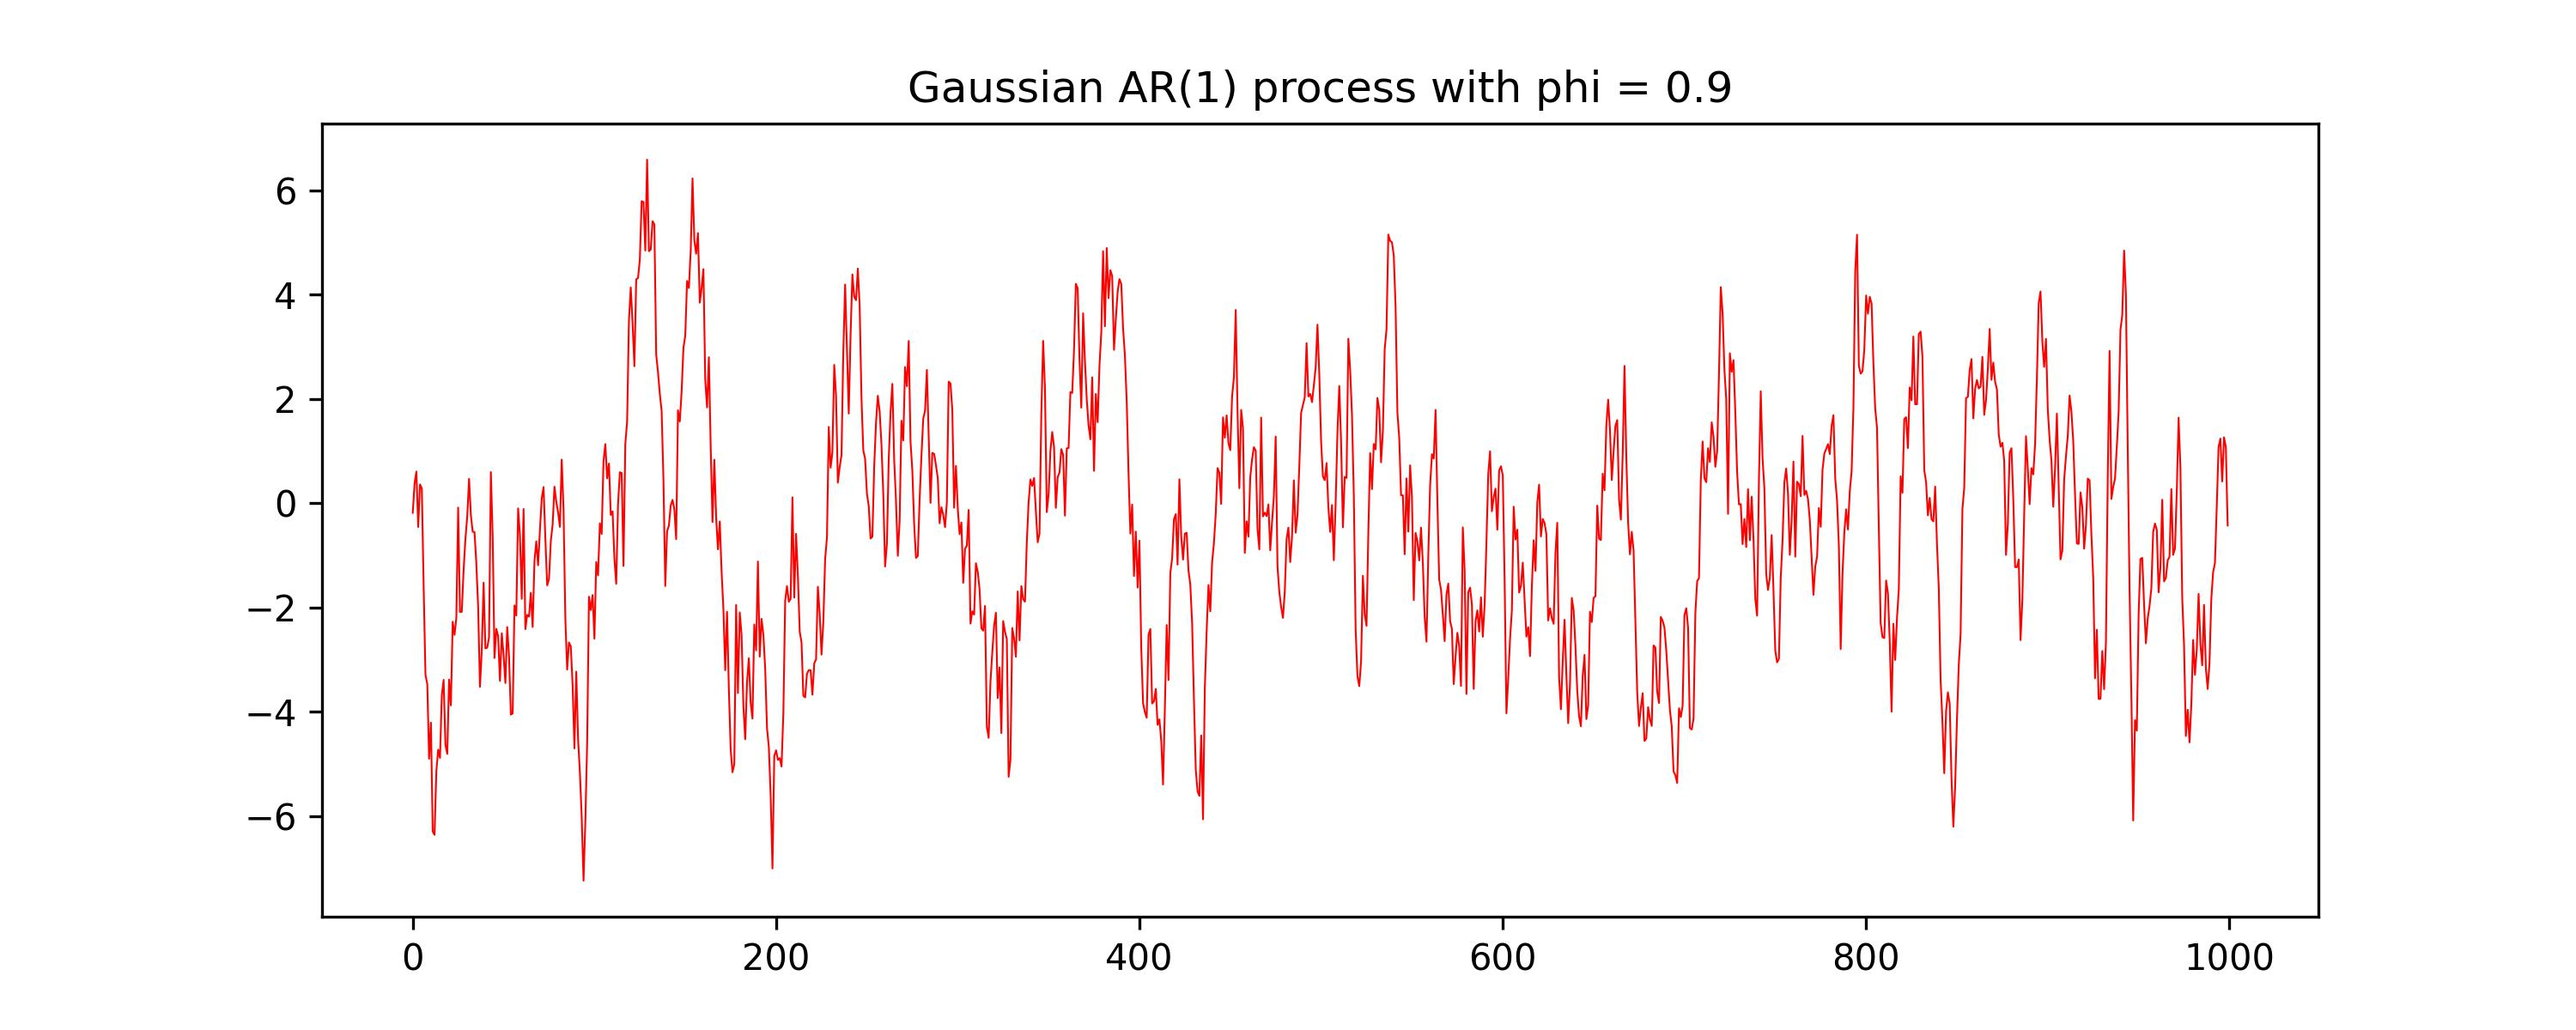
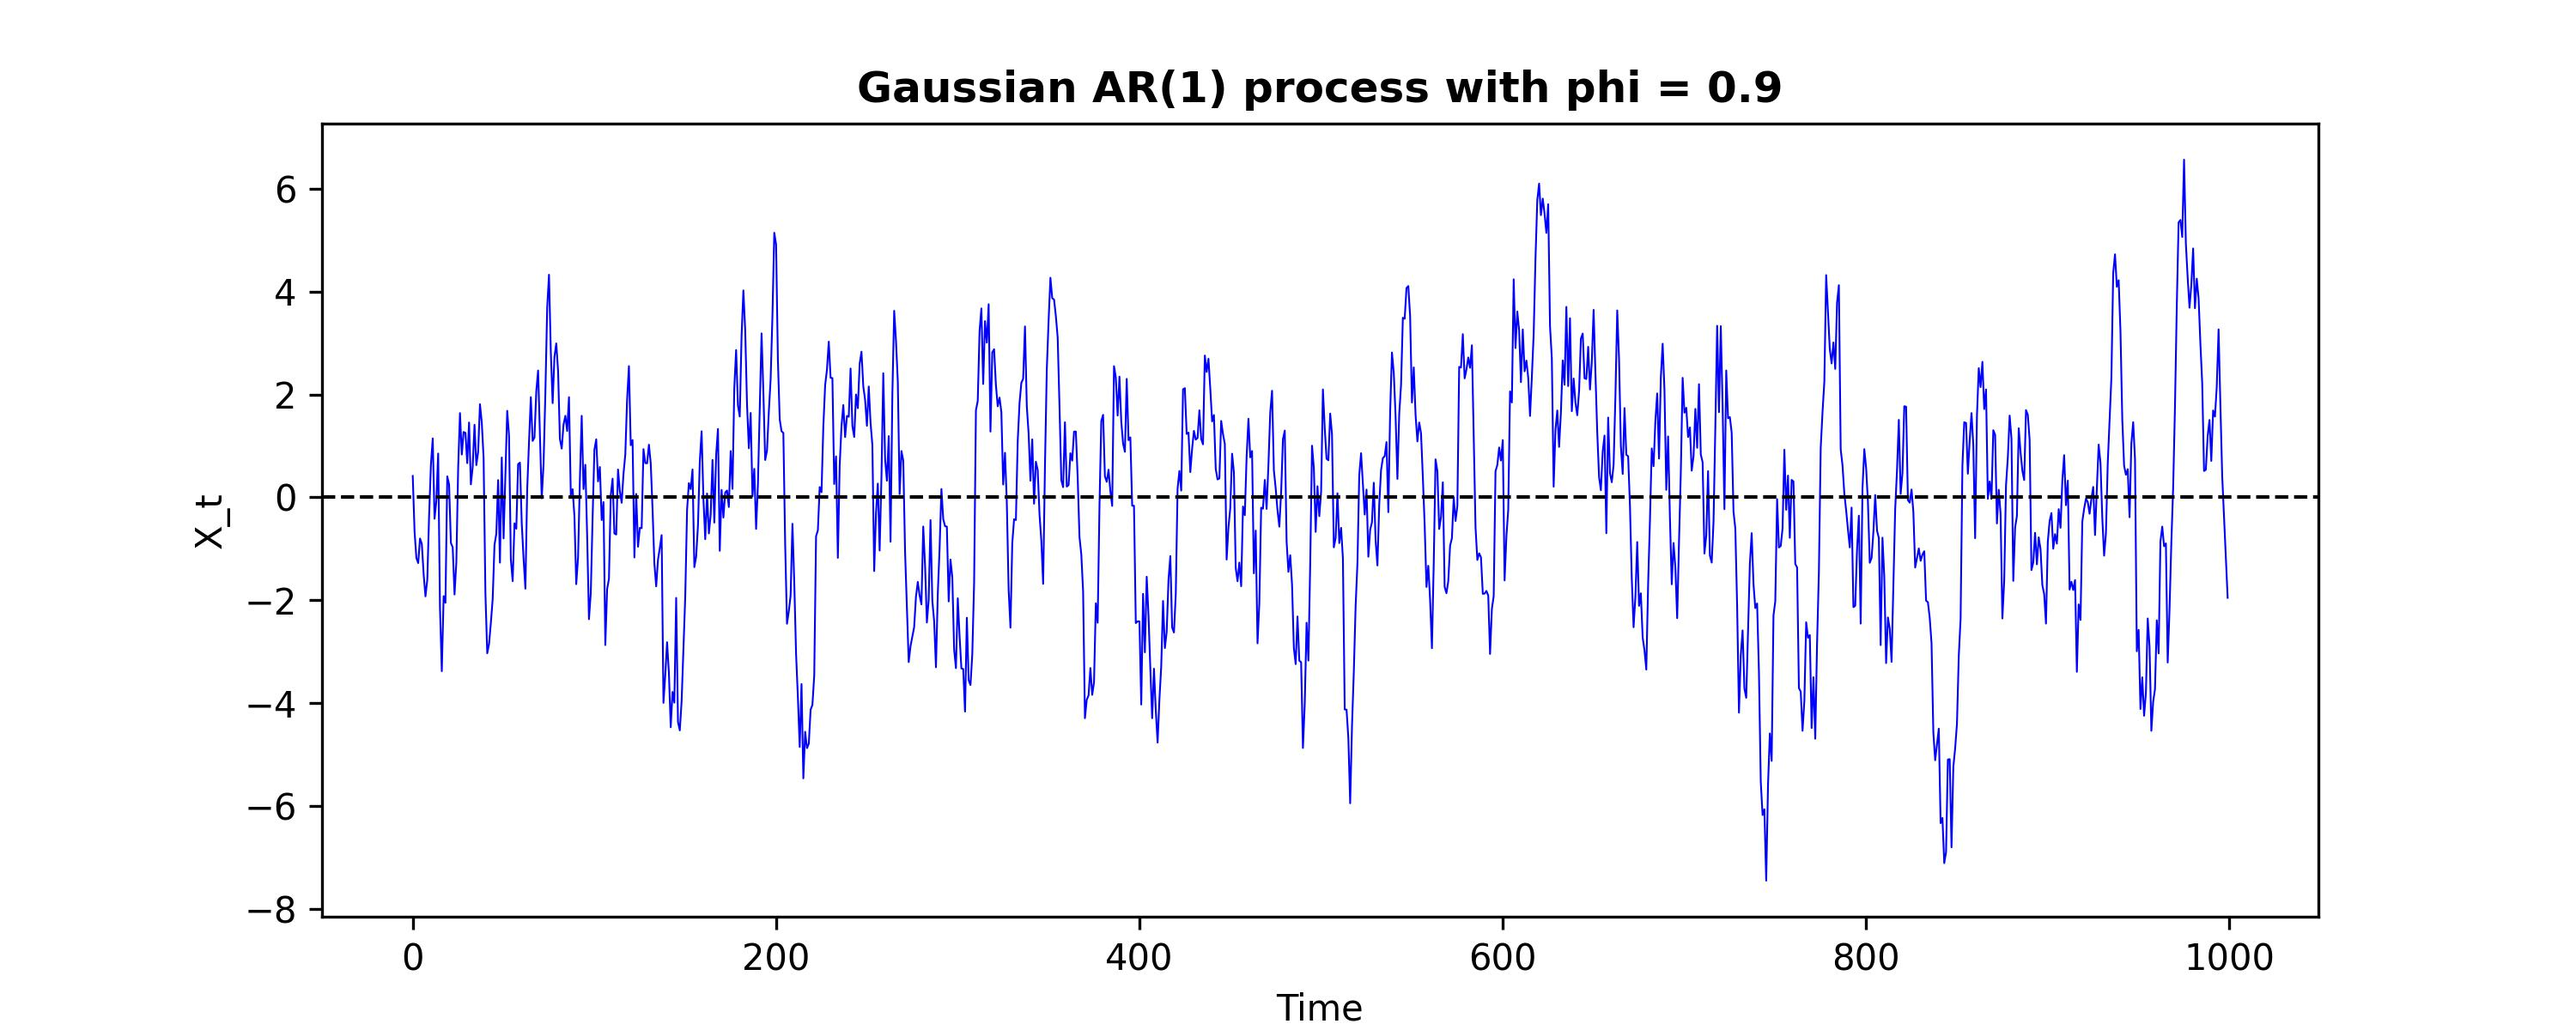
Improve the plots of graphs

diff --git a/1/TSDE_A1_Group19.py b/1/TSDE_A1_Group19.py
@@ -19,8 +19,11 @@ def autoRegressiveProcess(phi, time, whiteNoise):
     fileName = f'1_AR1_phi_{phi}'
     
     plt.figure(figsize=(10,4))
-    plt.plot(time_plt, x_t, linewidth = 0.5, color = 'red')
-    plt.title(graphTitle)
+    plt.plot(time_plt, x_t, linewidth = 0.5, color = 'blue')
+    plt.axhline(0, color='black', linestyle='--', linewidth=1)
+    plt.title(graphTitle, fontweight='bold')
+    plt.xlabel('Time')
+    plt.ylabel('X_t')
     plt.savefig(f'../1/figures/{fileName}.jpeg', dpi=300)
     plt.show()
 
@@ -51,8 +54,11 @@ graphTitle = 'Data set from Canvas'
 fileName = f'2_data_from_canvas'
 
 plt.figure(figsize=(10,4))    
-plt.plot(canvasData.index, canvasData, linewidth = 0.5, color = 'red')
-plt.title(graphTitle)
+plt.plot(canvasData.index, canvasData, linewidth = 0.5, color = 'blue')
+plt.axhline(0, color='black', linestyle='--', linewidth=1)
+plt.title(graphTitle, fontweight='bold')
+plt.xlabel('Time')
+plt.ylabel('X_t')
 plt.savefig(f'../1/figures/{fileName}.jpeg', dpi=300)
 plt.show()
 
@@ -67,8 +73,11 @@ def sacf(input_data, lag, graphTitle, fileName):
     lags = np.arange(1,lag+1,1)
     
     plt.figure(figsize=(10,4))
-    plt.bar(lags, result, color='red', edgecolor='black')
-    plt.title(graphTitle)
+    plt.bar(lags, result, color='blue', edgecolor='black')
+    plt.axhline(0, color='black', linestyle='--', linewidth=1)
+    plt.title(graphTitle, fontweight='bold')
+    plt.xlabel('Lag')
+    plt.ylabel('ACF')
     plt.savefig(f'../1/figures/{fileName}.jpeg', dpi=300)
     plt.show()
     
@@ -115,9 +124,11 @@ def assumption_check (estimate_residuals, question_number):
     graphTitle = 'Residuals over time'
     fileName = f'{question_number}_res_over_time'
 
-    plt.plot(estimate_residuals, linewidth=0.8)
-    plt.axhline(0, color='blue', linestyle='--', linewidth=1)
-    plt.title(graphTitle)
+    plt.plot(estimate_residuals, color='blue', linewidth=0.8)
+    plt.axhline(0, color='black', linestyle='--', linewidth=1)
+    plt.title(graphTitle, fontweight='bold')
+    plt.xlabel('Time')
+    plt.ylabel('Residuals')
     plt.savefig(f'../1/figures/{fileName}.jpeg', dpi=300)
     plt.show()
 
@@ -126,8 +137,10 @@ def assumption_check (estimate_residuals, question_number):
     graphTitle = 'Histogram of the residuals'
     fileName = f'{question_number}_hist_res'
 
-    plt.hist(estimate_residuals, color='red', edgecolor='black')
-    plt.title(graphTitle)
+    plt.hist(estimate_residuals, color='blue', edgecolor='black')
+    plt.title(graphTitle, fontweight='bold')
+    plt.xlabel('Residuals')
+    plt.ylabel('Frequency')
     plt.savefig(f'../1/figures/{fileName}.jpeg', dpi=300)
     plt.show()
 
@@ -146,8 +159,10 @@ def assumption_check (estimate_residuals, question_number):
     fileName = f'{question_number}_qq_res'
     
     plt.scatter(theoretical, sorted_residuals, color='white', edgecolor='black', s=15)
-    plt.plot([min_val, max_val], [min_val, max_val], 'r--', linewidth=1)
-    plt.title(graphTitle)
+    plt.plot([min_val, max_val], [min_val, max_val], 'b--', linewidth=1)
+    plt.title(graphTitle, fontweight='bold')
+    plt.xlabel('Theoretical distribution')
+    plt.ylabel('Sample distribution')
     plt.savefig(f'../1/figures/{fileName}.jpeg', dpi=300)
     plt.show()
 
@@ -177,8 +192,12 @@ def autoRegressiveProcess_two(phi_1, phi_2, time, whiteNoise):
     fileName = f'5_AR2_phi_{phi_1}_{phi_2}'
     
     plt.figure(figsize=(10,4))
-    plt.plot(time_plt, x_t, linewidth = 0.5, color = 'red')
-    plt.title(graphTitle)
+    plt.plot(time_plt, x_t, linewidth = 0.5, color = 'blue')
+    plt.axhline(0, color='black', linestyle='--', linewidth=1)
+    plt.title(graphTitle, fontweight='bold')
+    plt.xlabel('Time')
+    plt.ylabel('X_t')
+    plt.ylim(-20, 20)
     plt.savefig(f'../1/figures/{fileName}.jpeg', dpi=300)
     plt.show()
 
@@ -227,7 +246,11 @@ def movingAverageProcess(theta, time, whiteNoise):
     
     plt.figure(figsize=(10,4))
     plt.plot(time_plt, x_t, linewidth=0.5, color='blue')
-    plt.title(graphTitle)
+    plt.axhline(0, color='black', linestyle='--', linewidth=1)
+    plt.title(graphTitle, fontweight='bold')
+    plt.xlabel('Time')
+    plt.ylabel('X_t')
+    plt.ylim(-8, 8)
     plt.savefig(f'../1/figures/{fileName}.jpeg', dpi=300)
     plt.show()
     
